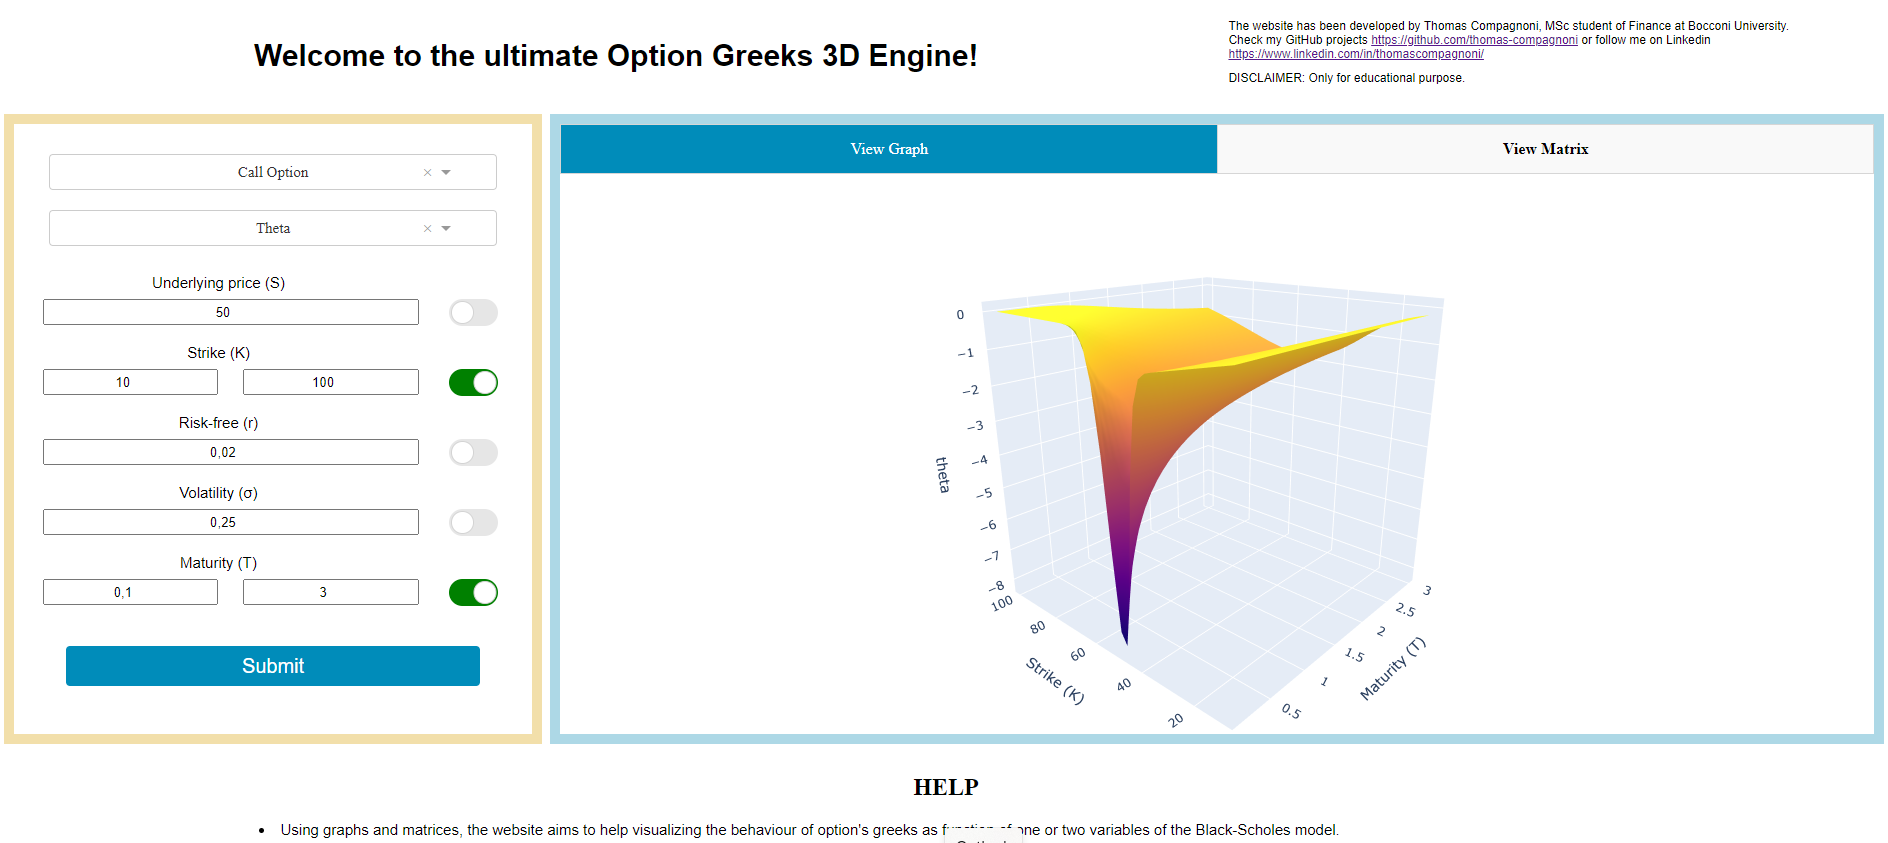
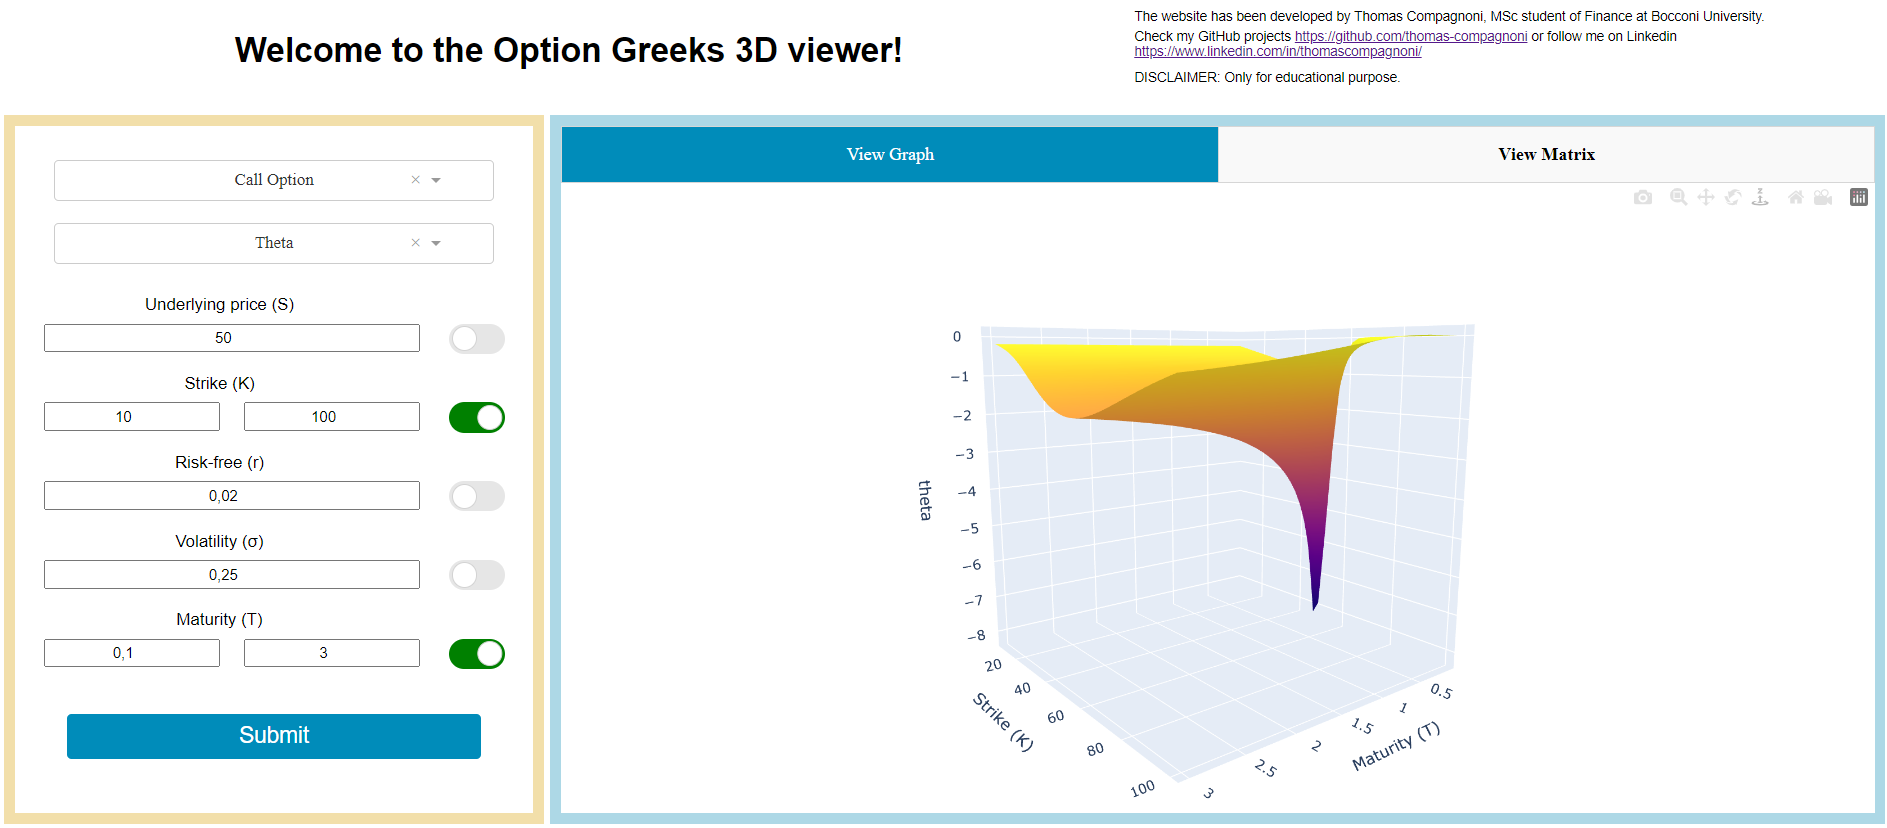
add meta tags

diff --git a/script/layout.py b/script/layout.py
@@ -10,11 +10,11 @@ LAYOUT = Div(
         Div(id='header',
             children=[
                 Div(
-                    P(children="Welcome to the ultimate Option Greeks 3D Engine!",
+                    P(children="Welcome to the Option Greeks 3D viewer!",
                       style={'font-family': 'Helvetica', 'font-size': '30px', 'font-weight': 'bold', 'color': 'black',
                              'textAlign': 'center', 'margin-top': '40px', 'margin-bottom': '40px'}),
                     id='title',
-                    style={'height': '100%', 'width': '65%', 'position': 'absolute'}
+                    style={'height': '100%', 'width': '60%', 'position': 'absolute'}
                 ),
                 Div(
                     children=[
@@ -25,13 +25,14 @@ LAYOUT = Div(
                                     A('https://github.com/thomas-compagnoni', href='https://github.com/thomas-compagnoni'),
                                     " or follow me on Linkedin ",
                                     A('https://www.linkedin.com/in/thomascompagnoni/', href='https://www.linkedin.com/in/thomascompagnoni/')],
-                          style={'font-family': 'Helvetica', 'margin': '0px', 'textAlign': 'left', 'font-size': '12px', 'color': 'black'}),
+                          style={'font-family': 'Helvetica', 'margin': '0px', 'margin-top': '5px',
+                                 'textAlign': 'left', 'font-size': '12px', 'color': 'black'}),
                         P(children="DISCLAIMER: Only for educational purpose.",
                           style={'font-family': 'Helvetica', 'margin-top': '10px', 'textAlign': 'left',
                                  'padding': '0px 0px', 'font-size': '12px', 'color': 'black'})
                     ],
                     id='info',
-                    style={'left': '65%', 'height': '100%', 'width': '35%', 'position': 'absolute'}),
+                    style={'left': '60%', 'height': '100%', 'width': '40%', 'position': 'absolute'}),
             ],
             style={'position': 'relative', 'height': '115px', 'width': '100%'}
             ),

diff --git a/script/app.py b/script/app.py
@@ -23,7 +23,30 @@ else:
     cache = diskcache.Cache("./cache")
     background_callback_manager = DiskcacheManager(cache)
 
-app = Dash(__name__, background_callback_manager=background_callback_manager, prevent_initial_callbacks=True)
+meta_tags = [
+    {
+        "name": "author",
+        "content": "Thomas Compagnoni"
+    },
+    {
+        "name": "title",
+        "content": "OptionGreeks3D",
+    },
+    {
+        "name": "description",
+        "content": "View and learn Option Greeks!",
+    },
+    {
+        'name': 'image',
+        'content': os.path.join(os.path.dirname(os.getcwd()), 'fig', 'website.png')
+    }
+    ]
+
+app = Dash(__name__,
+           meta_tags=meta_tags,
+           background_callback_manager=background_callback_manager,
+           prevent_initial_callbacks=True)
+
 server = app.server
 
 app.layout = LAYOUT
@@ -166,4 +189,4 @@ def graph(n_clicks, type, on,
 
 
 if __name__ == '__main__':
-    app.run_server()
+    app.run_server(debug=True)
